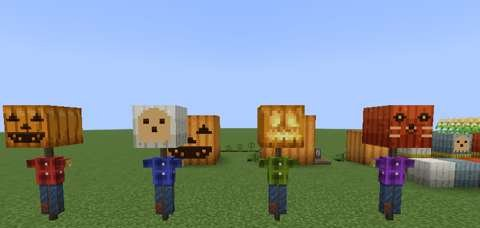
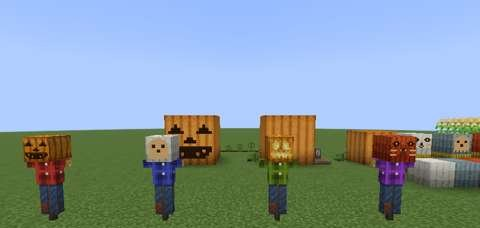
Document the giant pumpkin and scarecrow fixes
Feature record (behaviour, balance, saved state, the new and changed
tests and CI results on 6fa6337: 185 game tests pass, client test
passes), the Agriculture branch page with the new scarecrow screenshots,
CHANGELOG and WHAT_EXISTS.

Claude-Session: https://claude.ai/code/session_0126hvNUCuThWzVv935m75NC

diff --git a/docs/features/halloween-harvest.md b/docs/features/halloween-harvest.md
@@ -9,19 +9,23 @@ Primary specialty and supported player role: farming and decoration; supports bu
 ## Player experience
 Eleven additions for a fall pumpkin patch. Nothing is seasonal: everything works all year and stays in the world.
 
-1. **Giant pumpkins.** Giant Pumpkin Seeds plant a vine on farmland. It grows like a pumpkin stem, but 1.5× slower, then sets **one** small fruit on a free side and bends to it. While the vine holds it, the fruit grows on every random tick of its corner block: 1 point, +1 if the vine's farmland is moist, +1 if it was watered from a Gourd Canteen in the last day. Bone meal gives 4 points.
+1. **Giant pumpkins.** Giant Pumpkin Seeds plant a vine on farmland. It grows like a pumpkin stem, but 1.5× slower, then sets **one** small fruit on a free side and bends to it. While the vine holds it, the fruit grows on every random tick of its corner block: 1 point, +1 if the vine's farmland is moist, +1 if it was watered from a Gourd Canteen in the last day.
+   - **Bone meal** works all the way: on the growing vine it grows it, on the full-grown vine it sets the fruit at once, and on the vine holding a fruit or on the fruit itself it gives the fruit 4 points. A vine with no free side, or a fruit with no room to swell, says so instead of using the bone meal.
    - At 16 points it swells to **2×2×2**, at 48 to **3×3×3**, away from the vine and centred on it. It needs room (air, grass or flowers, never water) on ground fruit can lie on, or it waits.
    - Full grown, it weighs 100–120 kg and puts on 2 kg a point, up to **1000 kg**, until it is carved.
-   - Breaking any block breaks the whole pumpkin once: one pumpkin per block of a seedling (1, 4 or 9) and, full grown, 1–3 Giant Pumpkin Seeds. The vine then straightens and sets another. Pistons cannot move it.
+   - **It is one prop.** Breaking any block picks the whole pumpkin up as one **Giant Pumpkin** item that keeps its size, weight, carving, torch and name for the scale (its tooltip shows the size and weight). Placing it puts the whole cube back, reaching away from you and centred on where you aim; set down, it no longer grows. The vine straightens and sets another. Pistons cannot move it.
+   - **An axe chops it up** instead: one pumpkin per block of a seedling (1, 4 or 9) and, full grown, 1–3 Giant Pumpkin Seeds (and the torch, if lit).
 2. **A 48×48 carving face.** A full-grown giant's every side carves as one face, three times as fine as a pumpkin's, with the Carving Knife and the same screen (smaller cells, bigger brushes, starter faces blown up). A torch inside lights every block of it: 4, plus 1 for every 27 holes and every 108 shaved pixels, up to 15.
 3. **Scooping.** The first cut into any plain pumpkin scoops it out: besides its seeds, **1–2 Pumpkin Guts** and, one time in ten, a **Giant Pumpkin Seed**. Guts cook into **Pumpkin Soup** in the Cooking Pot (bowl, 2 guts, an onion) or compost.
-4. **The Harvest Scale** (a clock over iron and planks). Giant pumpkins can't be moved, so the scale goes to the pumpkin: put it beside (or under) a full-grown giant and use it with an empty hand.
+4. **The Harvest Scale** (a clock over iron and planks). Put it beside (or under) a full-grown giant, or pick the giant up and set it down beside the scale, and use the scale with an empty hand.
    - It weighs the pumpkin, keeps the **three heaviest** it has weighed on its board (under the name of whoever weighed them), and tells you the weight and the board.
    - The first time a pumpkin places on a scale's board, the player weighing it gets a **First, Second or Third Prize Ribbon**. Ribbons are trophies, nothing more.
    - A comparator reads the last weight (15 at 1000 kg).
 5. **Pumpkin stencils.** Use a Blank Stencil (two paper) on a carved side of a hand-carved pumpkin to trace it into a **Pumpkin Stencil**. Hold a stencil in your other hand while carving and the screen offers it next to the starter faces, blown up on a giant.
 6. **Heirloom pumpkins:** **White**, **Jarrahdale** (slate blue) and **Cinderella** (deep red-orange). They grow from stems like squash, give 4 seeds each, bake into vanilla pumpkin pie, and the Carving Knife carves them like pumpkins into their own hand-carved blocks.
-7. **The Scarecrow** (wool, hay, sticks): a straw figure on a post, two blocks tall, in a flannel shirt. Use any dye on it to change the shirt (16 colours). Its head is whatever you put on top: a pumpkin, a hand-carved one, a jack o'lantern.
+7. **The Scarecrow** (wool, hay, sticks): a straw figure on a post, two blocks tall, in a flannel shirt. Use any dye on it to change the shirt (16 colours).
+   - **It wears a pumpkin for a head:** use any pumpkin on it (plain, carved, a jack o'lantern, any hand-carved or heirloom one; the `jugcraft:scarecrow_heads` item tag) and it sits on its shoulders the way an armor stand wears one, ten pixels a side, bigger than a head, hand-carved ones with their own carving. Another pumpkin swaps in and gives the old one back; an empty hand takes it off.
+   - A torch lights a hand-carved head; a lit head (or a jack o'lantern) lights the scarecrow as brightly as the block would. Breaking the scarecrow drops its head.
 8. **Ornamental corn and corn shocks.** Ornamental (flint) corn grows like corn, 3 blocks tall, and is picked for its red, purple, blue-black and gold ears; three ears and string make an **Ornamental Corn Bundle** to hang on a wall or door frame. Breaking any corn plant 3 blocks tall gives **Corn Stalks**; six stalks and string make a **Corn Shock**, a two-block stook.
 9. **Caramel treats.** Sugar melts into **Caramel** in a furnace, smoker or campfire. An apple, caramel and a stick make a **Caramel Apple** (6 hunger; you keep the stick); two popcorn and caramel make a **Popcorn Ball** (5).
 10. **Gourd crafts.** The **Bottle Gourd** grows from a stem like squash; a furnace, smoker or campfire dries it. A dried gourd and string make a **Gourd Birdhouse**, which stands or hangs like a lantern; a dried gourd and leather make a **Gourd Canteen**, which holds 3 sips of water: fill it at any water source, then water a giant pumpkin, moisten farmland, put out fire or add a level to a cauldron.
@@ -41,7 +45,7 @@ Eleven additions for a fall pumpkin patch. Nothing is seasonal: everything works
 - How this stays useful without other branches: food, decoration, light and a weigh-off on its own.
 
 ## Balance and automation
-- A giant pumpkin is a long project, not a pumpkin farm: about 20–30 minutes of growth on moist, watered farmland to full size, then hours (or about 110 bone meal) to approach 1000 kg. It gives 9 pumpkins and 1–3 seeds, about what 9 pumpkins grown separately would.
+- A giant pumpkin is a long project, not a pumpkin farm: about 20–30 minutes of growth on moist, watered farmland to full size (or about 15 bone meal from a seedling vine: up to 7 for the vine, 1 to set the fruit, 12 to grow it), then hours (or about 110 more bone meal) to approach 1000 kg. Chopped up it gives 9 pumpkins and 1–3 seeds, about what 9 pumpkins grown separately would; picked up whole it is one item, which gives nothing more than the pumpkin it is.
 - Carving stops a giant's growth, so a weigh-off pumpkin is weighed before it is carved.
 - Scooping gives guts and a 10 % giant seed once per pumpkin: hand-carved pumpkins never turn back into plain ones, so there is no loop.
 - Ribbons have no use or value; the scale remembers the last 64 pumpkins it gave ribbons to, so weighing a pumpkin again gives no second one.
@@ -51,15 +55,16 @@ Eleven additions for a fall pumpkin patch. Nothing is seasonal: everything works
 - No automation: everything is by hand. The giant pumpkin and its vine are farmland crops; nothing chunk-loads them.
 
 ## Multiplayer and persistence
-- **Server authority.** Clients only draw. The giant's carving goes through the same checked carving session as a pumpkin's, now for a face of a known size: the client sends the size, then exactly that many ints; any other size is refused before anything is read. The server also checks that the session was opened for a face of that size, at the giant's corner block, with more reach (3.5 blocks more, as the corner can be up to three blocks from the side carved). The scale reads the weight from the pumpkin on the server; stencils are traced from the block on the server; the canteen changes blocks only where the player may build.
+- **Server authority.** Clients only draw. Placing a Giant Pumpkin item checks on the server that every block of its cube is free (or replaceable) and inside the world; chopping and putting heads on scarecrows need the right to build there. The giant's carving goes through the same checked carving session as a pumpkin's, now for a face of a known size: the client sends the size, then exactly that many ints; any other size is refused before anything is read. The server also checks that the session was opened for a face of that size, at the giant's corner block, with more reach (3.5 blocks more, as the corner can be up to three blocks from the side carved). The scale reads the weight from the pumpkin on the server; stencils are traced from the block on the server; the canteen changes blocks only where the player may build.
 - **Saved state.**
   - The giant's corner block keeps its growth points, weight, watering, lit torch, a UUID (for the scale's board), its four 48×48 faces and who carved it (sent to clients without the carver).
   - The scale keeps its board, its ribbon list and the last weight.
   - Stencils keep their design in the `jugcraft:stencil` component; canteens their water in `jugcraft:canteen_water`.
-  - The scarecrow's shirt and the giant's size, part and light are block states.
+  - The scarecrow's shirt and light and the giant's size, part and light are block states; the scarecrow's upper half keeps its head (an item stack).
+  - A picked-up giant pumpkin keeps everything its corner block knew in the `jugcraft:giant_pumpkin` item component.
 - **Bounded work.**
   - Only a giant's corner block ticks; a tick reads at most 3 blocks, a growth step at most 54.
-  - Breaking a giant removes at most 27 blocks.
+  - Breaking, chopping or placing a giant removes or fills at most 27 blocks.
   - The scale reads 5 neighbours.
   - The client keeps one texture per distinct giant design, in the same 256-entry cache as carved pumpkins.
 - New IDs only. Nothing existing changes, except that corn plants 3 blocks tall also drop stalks, Wild Corn sometimes drops ornamental kernels, short grass drops six more kinds of seed (the same 12.5 % chance in all), and the first cut into a pumpkin also scoops it. The `agriculture` switch turns off the new recipes, wild patches and grass drops; placed blocks and items stay.
@@ -82,12 +87,12 @@ The 14 new game tests (`HalloweenGameTests`):
 1. Giant Pumpkin Seeds plant a vine on farmland, not on grass;
 2. a grown vine sets one fruit and bends to it; ticks give 2 points on moist farmland and 3 when watered; the fruit swells to 2×2×2 and 3×3×3 away from the vine with its master at the lowest north-west corner, weighs 100–120 kg full grown, stays attached and turns further points into weight;
 3. stone in the way on both sides stops it growing, room on one side lets it grow that way, and cut from its vine it stops growing;
-4. breaking one block breaks all 27, drops 9 pumpkins and giant seeds once, and the vine straightens;
+4. breaking one block breaks all 27, drops 9 pumpkins and giant seeds once, and the vine straightens (replaced after the owner's first look: see below);
 5. a 48×48 face carves a full-grown giant's side through its master block; a 16×16 face is refused; a torch lights every block to the carving's glow; carved, it stops putting on weight;
 6. a white pumpkin carves into a hand-carved white pumpkin that keeps its face and drops itself; the first cut lets out 4 white pumpkin seeds and 1–2 pumpkin guts;
 7. the Harvest Scale weighs the giant beside it, lists it at its weight, gives one First Prize Ribbon, drives a comparator, updates the entry when weighed again without a second ribbon, and weighs nothing with no pumpkin beside it;
 8. a Blank Stencil does nothing on an uncarved side, traces a carved one into a Pumpkin Stencil (using one blank), and the carving screen is offered the stencil from the other hand;
-9. a scarecrow placed from its item stands two blocks tall in the default shirt; blue dye (looked up by its ID) recolours both halves and is used up; breaking the top half with a pumpkin head on it drops one scarecrow;
+9. a scarecrow placed from its item stands two blocks tall in the default shirt; blue dye (looked up by its ID) recolours both halves and is used up; breaking the top half drops one scarecrow;
 10. a corn shock stands two tall; an ornamental corn bundle hangs on a wall and drops when the wall goes; a gourd birdhouse hangs under a beam;
 11. an orange mum goes into a flower pot, which drops the pot and the mum; the four dye recipes load;
 12. ornamental corn is a tall crop picked for its ears; ripe corn and ornamental corn drop stalks and their ears when broken;
@@ -95,7 +100,7 @@ The 14 new game tests (`HalloweenGameTests`):
 14. the Gourd Canteen fills at a water source, moistens farmland, fills a cauldron a level and puts out fire, one sip each, does nothing when empty, and waters a giant pumpkin.
 
 The client game test (`HalloweenClientGameTests`):
-- builds a pumpkin patch: two full-grown giant pumpkins (one carved with the Classic face blown up, one beside a Harvest Scale), a 2×2×2 giant, a seedling and the vine's growth stages; four scarecrows in red, blue, green and purple shirts with carved heads; heirloom pumpkins and bottle gourds, hand-carved heirlooms on hay bales; ripe ornamental corn and corn shocks; a shed hung with corn bundles and gourd birdhouses, potted and wild mums. The log reads `[halloween test] giant pumpkin blocks: 63` (27 + 27 + 8 + 1);
+- builds a pumpkin patch: two full-grown giant pumpkins (one carved with the Classic face blown up, one beside a Harvest Scale), a 2×2×2 giant, a seedling and the vine's growth stages; four scarecrows in red, blue, green and purple shirts wearing carved heads; heirloom pumpkins and bottle gourds, hand-carved heirlooms on hay bales; ripe ornamental corn and corn shocks; a shed hung with corn bundles and gourd birdhouses, potted and wild mums. The log reads `[halloween test] giant pumpkin blocks: 63` (27 + 27 + 8 + 1);
 - photographs it by day and, with the carved giant and the carved heads lit, at midnight;
 - then opens the giant carving screen as the knife does, with a Pumpkin Stencil (the Spooky face) in the player's other hand, presses Apply (the stencil is offered and selected), turns the candle preview on, photographs the screen and presses Done. The server must then hold the stencil blown up to 48×48 on the giant's south side. The log reads `[halloween test] giant carved from a stencil over the network: true`.
 
@@ -104,6 +109,22 @@ Found by CI and fixed before this record:
 - 26.3 has no `Items.BLUE_DYE` field; the dye is looked up by its ID, as the scarecrow does (`76afe24`).
 - The game test server refused to load the datapack: three crafting recipes used the category `food`, which only cooking recipes have (`8855eb4`). The checker now fails on any such category.
 - The client log showed one model error: the hidden middle block of a 3×3×3 giant had a cube with no faces, which 26.3 refuses (`Expected between 1 and 6 unique faces, got 0`). It now has no element at all, and the checker fails on any model element without faces. Nothing showed, as that block is inside the pumpkin.
+
+**Changes after the owner's first look (1 October 2026).** The owner could not get a giant pumpkin to grow with bone meal (bone meal stopped at a full-grown vine, so the fruit waited on a random tick), asked for the giant to break and place as one prop like a large machine, and for the scarecrow to wear its head like an armor stand rather than have a block on top. All three changed as described above. Results on `6fa6337`:
+
+| Check | Result |
+| --- | --- |
+| `python3 scripts/check_repository.py`, `python3 tools/check_mod_data.py` | Pass (444 IDs) |
+| `./gradlew build` and the game tests on the headless server | **All 185 pass** |
+| Client game test (`HalloweenClientGameTests`) | **Passes**; the scarecrows wear their heads (screenshots `ingame_scarecrows*.jpg`, `ingame_scarecrow_head*.jpg`) |
+
+New and changed game tests (`HalloweenGameTests`):
+- bone meal alone, used by a player, grows a vine from nothing, sets its fruit (on the only free side), feeds it through the vine to 2×2×2 and through the pumpkin to 3×3×3, then adds 8 kg a use;
+- a boxed-in full-grown vine keeps its bone meal; with room, one bone meal sets the fruit;
+- breaking a corner block of a carved, weighed giant drops one Giant Pumpkin item (only the corner block drops), the vine straightens, the item keeps size, weight, id and carving, placing it from a south-facing player fills the same 3×3×3 off the vine, and an axe then chops it into 9 pumpkins and seeds (this replaces "breaking gives 9 pumpkins");
+- a scarecrow wears a jack o'lantern (its upper half gives light 15), swaps it for a hand-carved pumpkin (the jack o'lantern comes back), a torch lights the carved head to its carving's glow, an empty hand takes it off, and breaking it drops the scarecrow and its head.
+
+The first push did not compile: `Player.drop` takes a third argument in 26.3, so a head that doesn't fit the inventory now drops at the scarecrow (`6fa6337`).
 
 **Not run:**
 - a person playing it in a client (the client test drives the real carving screen with simulated input);

diff --git a/docs/branches/AGRICULTURE.md b/docs/branches/AGRICULTURE.md
@@ -288,20 +288,22 @@ Eleven additions for a fall pumpkin patch, all permanent. Details, numbers and t
 | **The pumpkin patch** from above: giant pumpkins, scarecrows, heirlooms, ornamental corn and the shed | **Giant pumpkins:** one carved with a jack o'lantern face, one by its Harvest Scale, a 2×2×2 and a seedling, with heirloom pumpkins on the right |
 | --- | --- |
 | ![The Halloween pumpkin patch from above](../images/ingame_halloween_harvest.jpg) | ![Giant pumpkins and the Harvest Scale](../images/ingame_giant_pumpkins.jpg) |
-| **Scarecrows** in four shirts, with a hand-carved pumpkin, a carved white pumpkin, a jack o'lantern and a carved Cinderella pumpkin for heads | **Heirloom pumpkins** and bottle gourds, hand-carved heirlooms on hay bales, corn shocks and ripe ornamental corn |
+| **Scarecrows** in four shirts, wearing a hand-carved pumpkin, a carved white pumpkin, a jack o'lantern and a carved Cinderella pumpkin on their shoulders | **Heirloom pumpkins** and bottle gourds, hand-carved heirlooms on hay bales, corn shocks and ripe ornamental corn |
 | ![Scarecrows](../images/ingame_scarecrows.jpg) | ![Heirloom pumpkins, corn shocks and ornamental corn](../images/ingame_heirloom_pumpkins.jpg) |
 | **The shed:** ornamental corn bundles, gourd birdhouses under the eaves, potted mums and wild mums | **Carving a giant pumpkin:** the 48×48 screen with a stencil from the other hand pressed in |
 | ![Corn bundles, birdhouses and mums](../images/ingame_harvest_decorations.jpg) | ![The giant carving screen](../images/ingame_carving_giant_screen.jpg) |
 | **At midnight:** the carved giant with a torch inside, and the one carved from the stencil | **The scarecrows at midnight** |
 | ![Giant pumpkins at night](../images/ingame_giant_pumpkin_night.jpg) | ![Scarecrows at night](../images/ingame_scarecrows_night.jpg) |
+| **A scarecrow's head:** worn like an armor stand's pumpkin, bigger than a head, its carving facing out | **The same at midnight,** the carving lit and the scarecrow lit by it |
+| ![A scarecrow wearing a hand-carved pumpkin](../images/ingame_scarecrow_head.jpg) | ![The scarecrow's head lit at midnight](../images/ingame_scarecrow_head_night.jpg) |
 
 *Real screenshots from the client game test that CI runs (`HalloweenClientGameTests`, software rendering, small previews, hotbar cropped). The giant was carved from the stencil through the screen; the server then held the face.*
 
 ### Giant pumpkins
 
-Plant **Giant Pumpkin Seeds** on farmland. The vine grows like a pumpkin stem (1.5× slower), then sets **one** small fruit beside it. While the vine holds it, the fruit grows: faster on moist farmland, faster still when watered from a **Gourd Canteen**, and bone meal feeds it too. It swells to **2×2×2**, then **3×3×3**, away from its vine, if there is room on ground fruit can lie on. Full grown, it weighs 100–120 kg and keeps putting on weight, up to 1000 kg, until it is carved.
+Plant **Giant Pumpkin Seeds** on farmland. The vine grows like a pumpkin stem (1.5× slower), then sets **one** small fruit beside it. While the vine holds it, the fruit grows: faster on moist farmland, faster still when watered from a **Gourd Canteen**. Bone meal works all the way: it grows the vine, sets the fruit on a full-grown vine, and feeds the fruit (given to the vine or the pumpkin). It swells to **2×2×2**, then **3×3×3**, away from its vine, if there is room on ground fruit can lie on. Full grown, it weighs 100–120 kg and keeps putting on weight, up to 1000 kg, until it is carved.
 
-Break any block of it to harvest the whole pumpkin: 9 pumpkins and 1–3 giant seeds when full grown. Pistons can't move it.
+A giant pumpkin is **one prop**: break any block and you pick up the whole pumpkin as one **Giant Pumpkin** item that keeps its size, weight and carving; place it anywhere and the whole cube goes back down, reaching away from you. Chop it up with an **axe** instead for 9 pumpkins and 1–3 giant seeds when full grown. Pistons can't move it.
 
 Every side of a full-grown giant carves with the Carving Knife as **one 48×48 face**, three times as fine as a pumpkin's; the screen shrinks its cells and offers bigger brushes, and the starter faces come blown up. A torch inside lights every block of it.
 
@@ -309,7 +311,7 @@ Where the seeds come from: the first cut into any pumpkin **scoops** it, and som
 
 ### The weigh-off
 
-Put a **Harvest Scale** beside a full-grown giant pumpkin and use it. It weighs the pumpkin and keeps the three heaviest it has weighed on its board. The first time a pumpkin places, whoever weighed it wins a **First, Second or Third Prize Ribbon**. A comparator reads the last weight.
+Put a **Harvest Scale** beside a full-grown giant pumpkin (or carry the pumpkin over and set it down beside the scale) and use it. It weighs the pumpkin and keeps the three heaviest it has weighed on its board. The first time a pumpkin places, whoever weighed it wins a **First, Second or Third Prize Ribbon**. A comparator reads the last weight.
 
 ### Fall decorations and treats
 
@@ -317,7 +319,7 @@ Put a **Harvest Scale** beside a full-grown giant pumpkin and use it. It weighs 
 | --- | --- | --- |
 | **Pumpkin Stencil** | Use a Blank Stencil (two paper) on a carved side | Traces the design; hold it in your other hand while carving to press it in, on any pumpkin or a giant |
 | **White, Jarrahdale and Cinderella pumpkins** | Wild in birch forests and snowy places, savannas and windswept hills, plains and flower forests; grass drops their seeds | Grow from stems; carve like pumpkins into their own hand-carved blocks; bake into pumpkin pie |
-| **Scarecrow** | Wool over hay between sticks | Two blocks tall; dye its flannel shirt any colour; put any pumpkin on top for a head |
+| **Scarecrow** | Wool over hay between sticks | Two blocks tall; dye its flannel shirt any colour; give it any pumpkin and it wears it for a head (a lit one lights it) |
 | **Ornamental corn** | Wild Corn sometimes drops its kernels; grass drops them | Grows like corn; its multicoloured ears tie into an **Ornamental Corn Bundle** for walls and door frames |
 | **Corn Shock** | Six Corn Stalks (from breaking any corn 3 blocks tall) and string | A two-block stook for porches |
 | **Caramel, Caramel Apple, Popcorn Ball** | Smelt sugar; add an apple and a stick, or two popcorn | Treats (2, 6 and 5 hunger); the apple's stick comes back |

diff --git a/docs/WHAT_EXISTS.md b/docs/WHAT_EXISTS.md
@@ -154,9 +154,9 @@ The Agriculture branch ([branches/AGRICULTURE.md](branches/AGRICULTURE.md)). Eve
 | Chestnut tree | `chestnut_sapling`, `chestnut_leaves`; wood: `chestnut_log`, `chestnut_wood`, `stripped_chestnut_log`, `stripped_chestnut_wood`, `chestnut_planks`, `chestnut_stairs`, `chestnut_slab`, `chestnut_fence`, `chestnut_fence_gate` | vanilla `SaplingBlock` with `JugcraftAgriculture.CHESTNUT_GROWER`; `ChestnutLeavesBlock` (`fruit` 0–2); `StrippableLogBlock` | tree: `worldgen/feature/chestnut.json`; wood in vanilla wood tags and `jugcraft:chestnut_logs`; fuel and flammability like oak |
 | Decorations | `turnip_lantern` | `TurnipLanternBlock` | light 13, faces the player |
 | Carving | `hand_carved_pumpkin`, `hand_carved_white_pumpkin`, `hand_carved_jarrahdale_pumpkin`, `hand_carved_cinderella_pumpkin` (blocks with items); `carving_knife`; `blank_stencil`, `pumpkin_stencil`; `pumpkin_guts` | `CarvedPumpkinBlock` + `CarvedPumpkinBlockEntity` (one block entity type for all four); `CarvingKnifeItem`; `BlankStencilItem`, `PumpkinStencilItem` | four carved sides (`PumpkinCarving`); `facing`, `lit`, `glow` 0–15; light only with a torch inside; data components `jugcraft:carving`, `jugcraft:stencil`; loot `carve/<pumpkin>` and `gameplay/scoop_pumpkin` |
-| Giant pumpkin | `giant_pumpkin` (no item), `giant_pumpkin_vine`, `attached_giant_pumpkin_vine`; `giant_pumpkin_seeds` | `GiantPumpkinBlock` (`size` 1–3, `part` 0–26, `light` 0–15) + `GiantPumpkinBlockEntity` on part 0 only; `GiantPumpkinVineBlock`, `AttachedGiantPumpkinVineBlock` | growth points, weight, watering, four 48×48 faces (`CarvingFace`), lit; pushes `IMMOVEABLE` |
+| Giant pumpkin | `giant_pumpkin` (block, and the item it drops whole), `giant_pumpkin_vine`, `attached_giant_pumpkin_vine`; `giant_pumpkin_seeds` | `GiantPumpkinBlock` (`size` 1–3, `part` 0–26, `light` 0–15) + `GiantPumpkinBlockEntity` on part 0 only; `GiantPumpkinItem`; `GiantPumpkinVineBlock`, `AttachedGiantPumpkinVineBlock` (both take bone meal) | growth points, weight, watering, four 48×48 faces (`CarvingFace`), lit; data component `jugcraft:giant_pumpkin` (`GiantPumpkinData`) carries it as an item; chop loot `gameplay/chop_giant_pumpkin`; pushes `IMMOVEABLE` |
 | Harvest Scale | `harvest_scale` (block with item); `first_prize_ribbon`, `second_prize_ribbon`, `third_prize_ribbon` | `HarvestScaleBlock` + `HarvestScaleBlockEntity` | board of 3, ribbons once per pumpkin, comparator output |
-| Fall decorations | `scarecrow`, `corn_shock`, `ornamental_corn_bundle`, `gourd_birdhouse` (blocks with items); `gourd_canteen`; `yellow_mum`, `orange_mum`, `red_mum`, `purple_mum` and their `potted_` forms | `ScarecrowBlock` (`shirt`: 16 dye colours) and corn shock: `TallDecorationBlock` (2 tall); `WallDecorationBlock`; vanilla `LanternBlock`, `FlowerBlock`, `FlowerPotBlock`; `GourdCanteenItem` | data component `jugcraft:canteen_water` (0–3) |
+| Fall decorations | `scarecrow`, `corn_shock`, `ornamental_corn_bundle`, `gourd_birdhouse` (blocks with items); `gourd_canteen`; `yellow_mum`, `orange_mum`, `red_mum`, `purple_mum` and their `potted_` forms | `ScarecrowBlock` (`shirt`: 16 dye colours, `light` 0–15) + `ScarecrowBlockEntity` on the upper half (the worn head, item tag `jugcraft:scarecrow_heads`; drawn by `ScarecrowRenderer`) and corn shock: `TallDecorationBlock` (2 tall); `WallDecorationBlock`; vanilla `LanternBlock`, `FlowerBlock`, `FlowerPotBlock`; `GourdCanteenItem` | data component `jugcraft:canteen_water` (0–3) |
 | Wild plants | `wild_corn`, `wild_sunflower`, `wild_beans`, `wild_sweet_potato`, `wild_flax`, `wild_tomato`, `wild_pepper`, `wild_onion`, `wild_garlic`, `wild_cabbage`, `wild_oats`, `wild_barley`, `wild_turnip` | `WildCropBlock` | patches on grass (`worldgen/placed_feature/patch_wild_*`); shears take the plant. Gourds, ripe cranberry bushes and chestnut trees also generate as themselves (`patch_<gourd>`, `patch_cranberry_bush`, `patch_chestnut_tree`) |
 | Seeds (place the crop) | `corn_kernels`, `sunflower_seeds`, `beans`, `sweet_potato`, `flax_seeds`, `pepper_seeds`, `onion`, `garlic`, `cabbage_seeds`, `oat_seeds`, `barley_seeds`, `butternut_squash_seeds`, `acorn_squash_seeds`, `warty_gourd_seeds`, `turnip`, `cranberries` (into shallow water), `chestnut` (plants the sapling); `tomato_seeds` | `BlockItem`; `TrellisSeedItem` (plants on a trellis) | `c:seeds/*`, and animal food tags |
 | Produce and food | `corn`, `roasted_corn`, `popcorn`, `roasted_sunflower_seeds`, `baked_sweet_potato`, `flax`, `three_sisters_stew`, `tomato`, `pepper`, `cabbage`, `oats`, `barley`, `barley_bread`, `sauerkraut`, `garden_salad`, `tomato_soup`, `onion_soup`, `vegetable_soup`, `mushroom_barley_soup`, `oat_porridge`, `chili`, `cabbage_rolls`, `roasted_chestnuts`, `baked_acorn_squash`, `squash_pie`, `candy_corn`, `butternut_squash_soup`, `harvest_stew`, `cranberry_sauce`, `roasted_pumpkin_seeds` | plain items with food components | `c:crops/*`, `c:foods/*` |

diff --git a/CHANGELOG.md b/CHANGELOG.md
@@ -9,13 +9,13 @@ Every change to Jugcraft, newest first, grouped by pull request. For what each t
 No numbered release yet. Everything below is on `main`.
 
 ### Agriculture: the Halloween harvest (pull request pending, stacked on Pumpkin Carving)
-- **Giant pumpkins:** Giant Pumpkin Seeds plant a vine that sets one fruit and grows it to 2×2×2, then 3×3×3 (faster on moist farmland and when watered; bone meal feeds it). Full grown it weighs 100–120 kg and gains weight up to 1000 kg until carved. Breaking it gives 9 pumpkins and 1–3 giant seeds; pistons can't move it.
+- **Giant pumpkins:** Giant Pumpkin Seeds plant a vine that sets one fruit and grows it to 2×2×2, then 3×3×3 (faster on moist farmland and when watered; bone meal grows the vine, sets the fruit and feeds it). Full grown it weighs 100–120 kg and gains weight up to 1000 kg until carved. It is one prop: breaking it picks it up whole as a **Giant Pumpkin** item (keeping its size, weight and carving) that places the same pumpkin back; an axe chops it into 9 pumpkins and 1–3 giant seeds. Pistons can't move it.
 - **A 48×48 carving face** on each side of a full-grown giant, carved with the Carving Knife through the same screen (smaller cells, bigger brushes, starter faces blown up); a torch lights every block of it.
 - **Scooping:** the first cut into a pumpkin also gives 1–2 **Pumpkin Guts** (Pumpkin Soup in the Cooking Pot) and sometimes a giant pumpkin seed.
 - **Harvest Scale:** weighs the giant beside it, keeps a board of the three heaviest, gives First, Second and Third Prize Ribbons (trophies) once per pumpkin, and drives a comparator.
 - **Pumpkin stencils:** trace a carved side onto a Blank Stencil; hold the stencil in your other hand while carving to press it in.
 - **Heirloom pumpkins:** White, Jarrahdale and Cinderella, grown from stems, found wild, carvable into their own hand-carved blocks, and baked into pumpkin pie.
-- **Scarecrow** (dye its flannel shirt; any pumpkin is its head), **ornamental corn** (a tall crop; its ears tie into an **Ornamental Corn Bundle** for walls), **Corn Stalks** from tall corn and the **Corn Shock**.
+- **Scarecrow** (dye its flannel shirt; it wears any pumpkin on its shoulders for a head, like an armor stand, carving and all, and a lit one lights it), **ornamental corn** (a tall crop; its ears tie into an **Ornamental Corn Bundle** for walls), **Corn Stalks** from tall corn and the **Corn Shock**.
 - **Caramel**, **Caramel Apple** (you keep the stick) and **Popcorn Ball**.
 - **Bottle Gourd** (found wild), dried into a **Gourd Birdhouse** (stands or hangs) or a **Gourd Canteen** (3 sips of water for giant pumpkins, farmland, fire or a cauldron).
 - **Mums** in four colours: flowers for pots, dye and suspicious stew, in wild patches.
